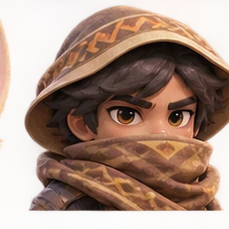
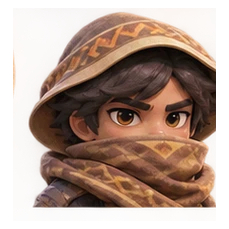
fix(arowgo): align portrait crops and picker footer

diff --git a/products/interfrozt/games/arowgo/src/ui/profile.css b/products/interfrozt/games/arowgo/src/ui/profile.css
@@ -867,3 +867,37 @@
     display: none;
   }
 }
+
+/* Align portrait tiles and anchor paging/Save to the same footer baseline. */
+.portrait-studio .avatar-picker.adventure-picker button {
+  display: grid;
+  place-items: center;
+  line-height: 0;
+}
+.portrait-studio .avatar-controls {
+  display: flex;
+  align-items: center;
+  justify-content: flex-start;
+  width: 100%;
+  gap: 8px;
+}
+.portrait-studio .avatar-controls > span {
+  min-width: 40px;
+  text-align: center;
+}
+.portrait-studio .avatar-controls .primary-button {
+  margin-left: auto;
+  flex-shrink: 0;
+}
+.portrait-studio .avatar-controls button:not(.primary-button) {
+  display: grid;
+  place-items: center;
+  font-size: 22px;
+  line-height: 1;
+}
+@media (max-height: 460px) and (min-width: 600px) {
+  .portrait-studio .avatar-controls {
+    width: auto;
+    gap: 3px;
+  }
+}

diff --git a/products/interfrozt/games/arowgo/docs/PROFILE-AVATARS.md b/products/interfrozt/games/arowgo/docs/PROFILE-AVATARS.md
@@ -25,3 +25,5 @@ Old saves and unknown frame IDs safely default avatarFrame to none without reset
 ## Multi-row picker update
 
 Appearance categories now show twelve options per page: four columns and three rows on taller phones, six columns and two rows on desktop and compact screens. Avatar/Background/Frame use equal-width segmented controls, a purple active state, and selection checkmarks on tiles. Paging and explicit Save remain; no save format or economy changes.
+
+Portrait positioning correction: recropped the source using artwork row boundaries 0/242/466/694/914/1145 instead of nominal 229px rows, inset horizontal edges by 8px, and centered each cutout on a 229px transparent canvas with padding. This removes neighboring-row fragments. Tiles use grid centering; paging and Save share a consistent footer baseline.
